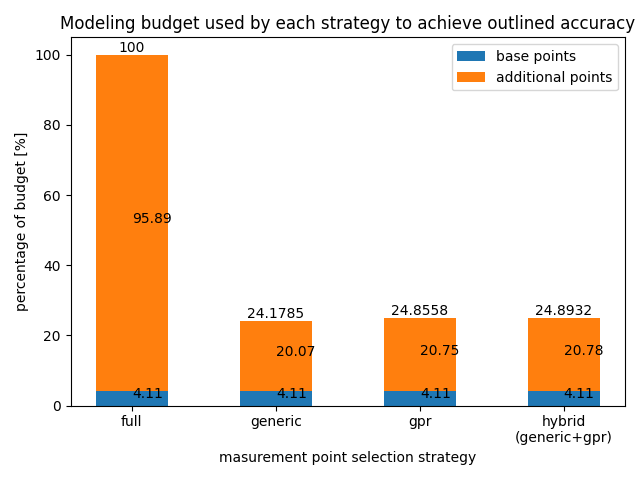
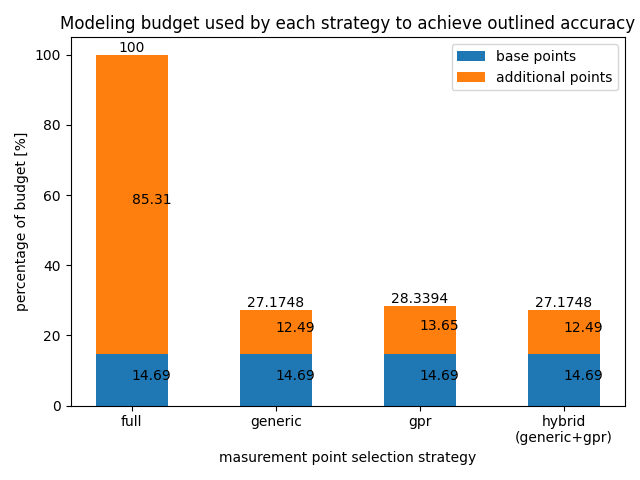
added with kernel with noise estimation based on measurements

diff --git a/case_study.py b/case_study.py
@@ -795,16 +795,38 @@ def main():
                         normalization_factors[experiment.parameters[i]] = param_value_max
                         
                     print("normalization_factors:",normalization_factors)
-
-                # create a gaussian process regressor
-                #TODO: need to make sure this is correct
-                #TODO: should use RBF or something else???
+                
+                # do an noise analysis on the existing points
+                m = experiment.measurements
+                #print("DEBUG:",m)
+                n = m[(callpath, metric)]
+                #print("DEBUG:",n)
+                temp = []
+                for cord in selected_points:
+                    for meas in n:
+                        if meas.coordinate == cord:
+                            temp.append(meas)
+                            break
+                #print("temp:",temp)
+                nns = []
+                for meas in temp:
+                    #print("DEBUG:",meas.values)
+                    mean_mes = np.mean(meas.values)
+                    pps = []
+                    for val in meas.values:
+                        pp = abs((val / (mean_mes / 100)) - 100)
+                        pps.append(pp)
+                        #print(pp,"%")
+                    nn = np.mean(pps)
+                    nns.append(nn)
+                mean_noise = np.mean(nns)
+                #print("mean_noise:",mean_noise,"%")
 
                 # nu should be [0.5, 1.5, 2.5, inf], everything else has 10x overhead
-                #TODO white kernel noise= could be actual found noise in the measurements...
-                kernel = 1.0 * Matern(length_scale=1.0, length_scale_bounds=(1e-5, 1e5), nu=1.5) + WhiteKernel(noise_level=0.0336)
+                # matern kernel + white kernel to simulate actual noise found in the measurements
+                kernel = 1.0 * Matern(length_scale=1.0, length_scale_bounds=(1e-5, 1e5), nu=1.5) + WhiteKernel(noise_level=mean_noise)
 
-                #kernel = 1 * RBF(length_scale=1.0, length_scale_bounds=(1e-2, 1e3))
+                # create a gaussian process regressor
                 gaussian_process = GaussianProcessRegressor(
                     kernel=kernel, n_restarts_optimizer=20
                 )

diff --git a/minife/lichtenberg/minife_problem_size_test.py b/minife/lichtenberg/minife_problem_size_test.py
@@ -10,11 +10,7 @@ p = [64,128,256,512,1024]
 n_e = [600]
 p_e = [2048]
 
-<<<<<<< HEAD
-base = 90
-=======
-base = 110
->>>>>>> 88dc6b0680559a7dc7e1c68ed911e75e531f7193
+base = 95
 
 base_nx = base
 base_ny = base
